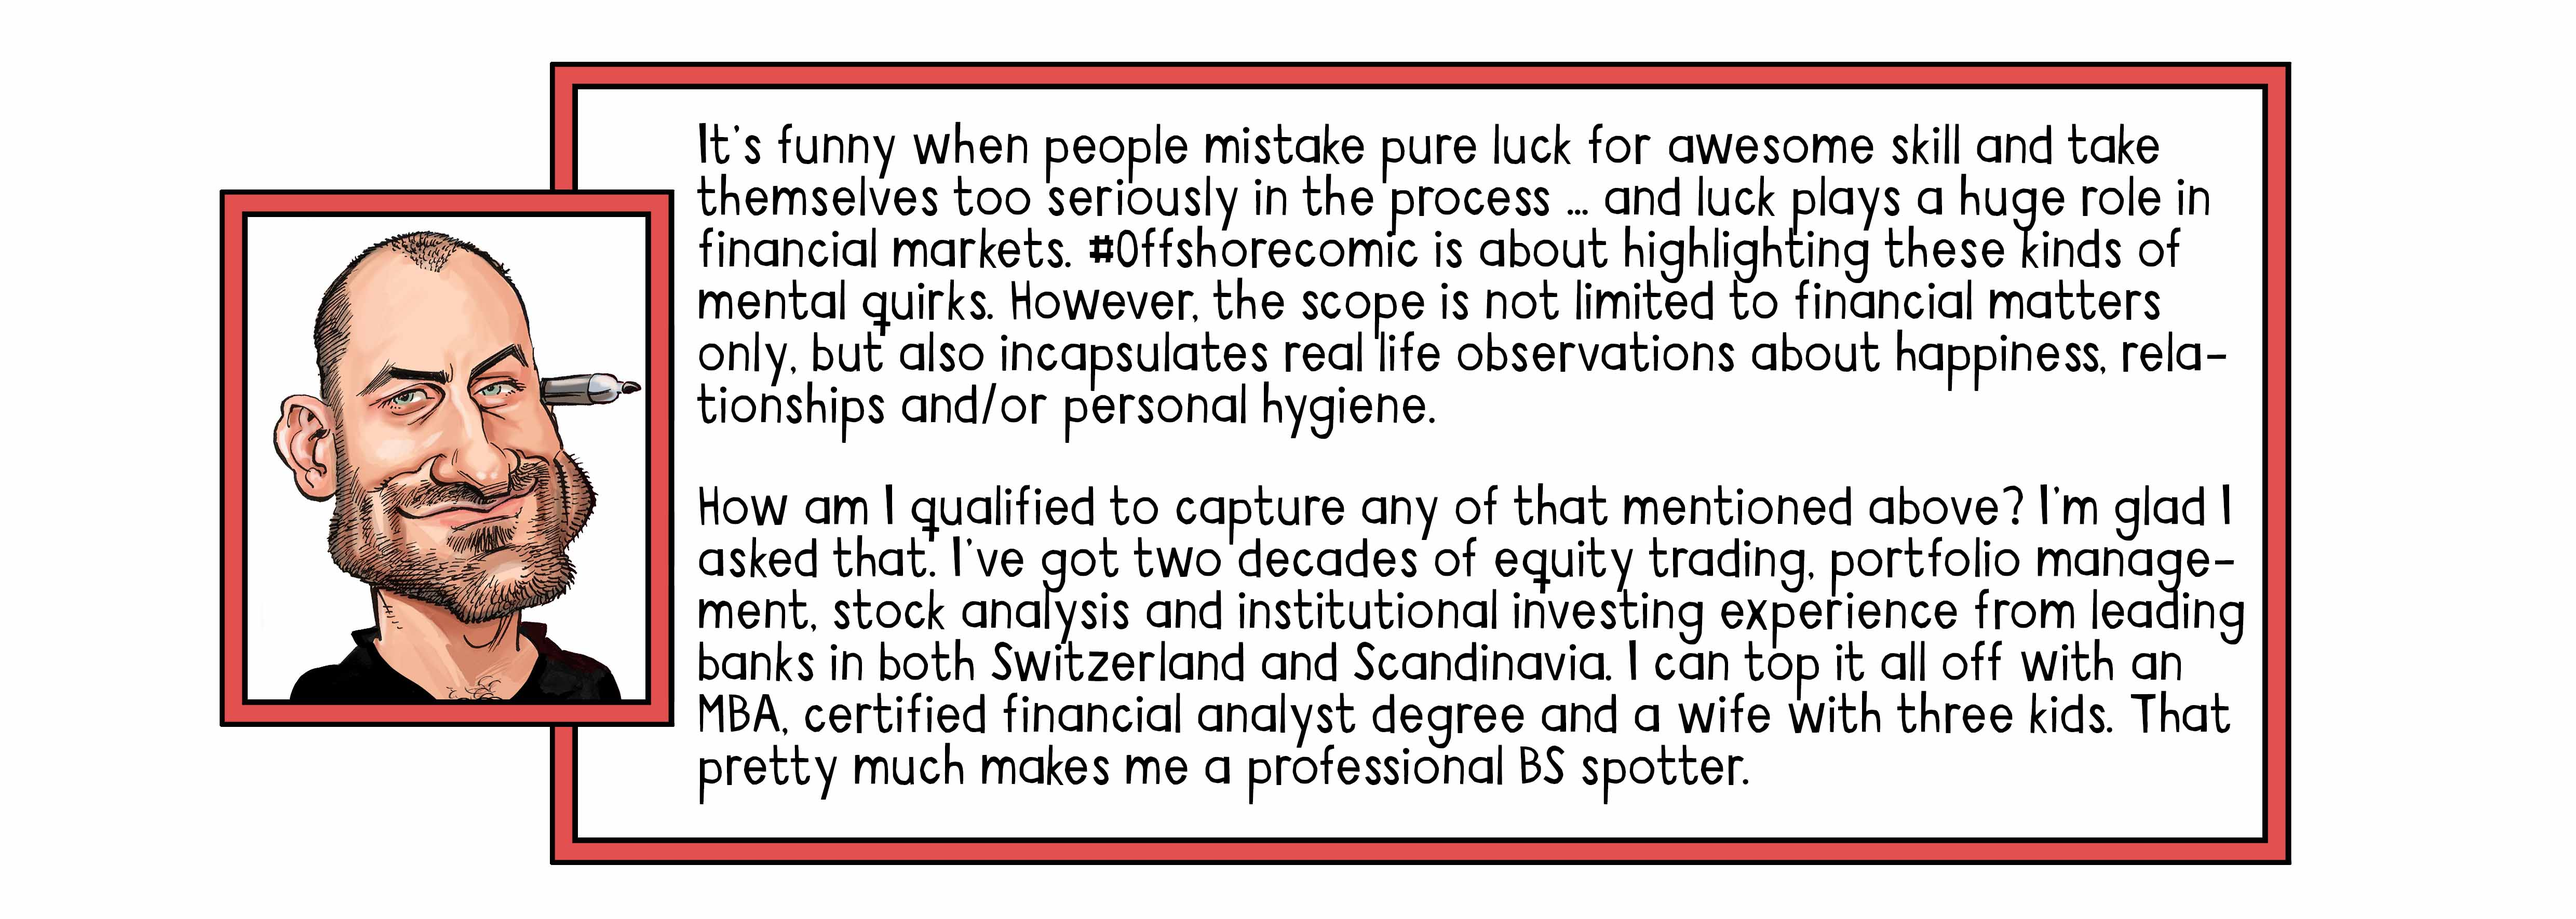
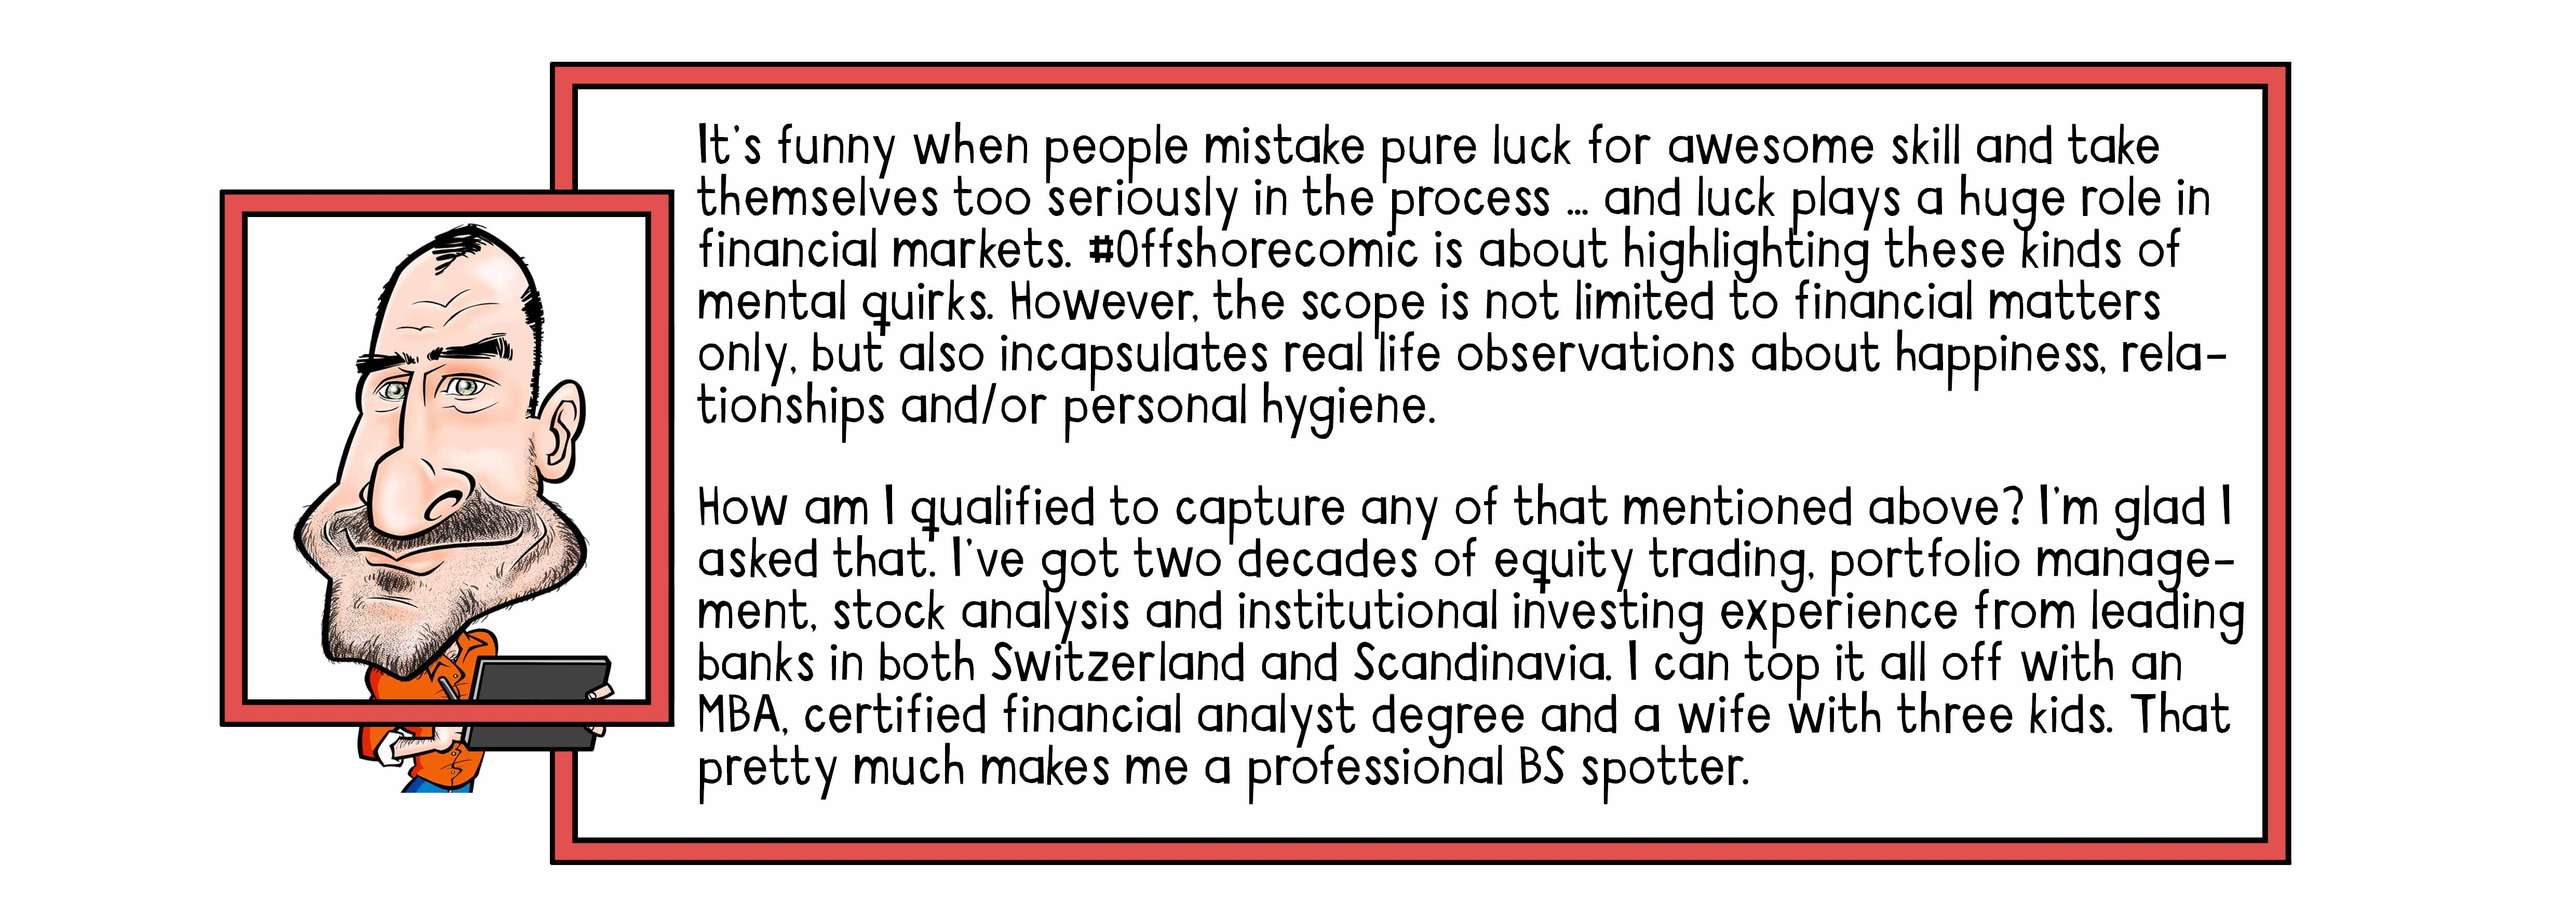
Added new strip and updated the html and js codes accordingly.

Changed region(s): [[0.0937, 0.2486, 0.2499, 0.8701]]

diff --git a/myscripts.js b/myscripts.js
@@ -1,4 +1,4 @@
-var Strips = ["images/S272.jpg","images/S271.jpg","images/S270.jpg","images/S269.jpg","images/S268.jpg","images/S267.jpg","images/S266.jpg","images/S265.jpg","images/S264.jpg","images/S263.jpg","images/S262.jpg","images/S261.jpg","images/S260.jpg","images/S259.jpg","images/S258.jpg","images/S257.jpg","images/S256.jpg","images/S255.jpg","images/S254.jpg","images/S253.jpg","images/S252.jpg","images/S251.jpg","images/S250.jpg","images/S249.jpg","images/S248.jpg","images/S247.jpg","images/S246.jpg","images/S245.jpg","images/S244.jpg","images/S243.jpg","images/S242.jpg","images/S241.jpg","images/S240.jpg","images/S239.jpg","images/S238.jpg","images/S237.jpg","images/S236.jpg","images/S235.jpg","images/S234.jpg","images/S233.jpg","images/S232.jpg","images/S231.jpg","images/S230.jpg","images/S229.jpg","images/S228.jpg","images/S227.jpg","images/S226.jpg","images/S225.jpg","images/S224.jpg","images/S223.jpg","images/S222.jpg","images/S221.jpg","images/S220.jpg","images/S219.jpg","images/S218.jpg","images/S217.jpg","images/S216.jpg","images/S215.jpg","images/S214.jpg","images/S213.jpg","images/S212.jpg","images/S211.jpg","images/S210.jpg","images/S209.jpg","images/S208.jpg","images/S207.jpg","images/S206.jpg","images/S205.jpg","images/S204.jpg","images/S203.jpg","images/S202.jpg","images/S201.jpg","images/S200.jpg","images/S199.jpg","images/S198.jpg","images/S197.jpg","images/S196.jpg","images/S195.jpg","images/S194.jpg","images/S193.jpg","images/S192.jpg","images/S191.jpg","images/S190.jpg","images/S189.jpg","images/S188.jpg","images/S187.jpg","images/S186.jpg","images/S185.jpg","images/S184.jpg","images/S183.jpg","images/S182.jpg","images/S181.jpg","images/S180.jpg","images/S179.jpg","images/S178.jpg","images/S177.jpg","images/S176.jpg","images/S175.jpg","images/S174.jpg","images/S173.jpg","images/S172.jpg","images/S171.jpg","images/S170.jpg","images/S169.jpg","images/S168.jpg","images/S167.jpg","images/S166.jpg","images/S165.jpg","images/S164.jpg","images/S163.jpg","images/S162.jpg","images/S161.jpg","images/S160.jpg","images/S159.jpg","images/S158.jpg","images/S157.jpg","images/S156.jpg","images/S155.jpg","images/S154.jpg","images/S153.jpg","images/S152.jpg","images/S151.jpg","images/S150.jpg","images/S149.jpg","images/S148.jpg","images/S147.jpg","images/S146.jpg","images/S145.jpg","images/S144.jpg","images/S143.jpg","images/S142.jpg","images/S141.jpg","images/S140.jpg","images/S139.jpg","images/S138.jpg","images/S137.jpg","images/S136.jpg","images/S135.jpg","images/S134.jpg","images/S133.jpg","images/S132.jpg","images/S131.jpg","images/S130.jpg","images/S129.jpg","images/S128.jpg","images/S127.jpg","images/S126.jpg","images/S125.jpg","images/S124.jpg","images/S123.jpg","images/S122.jpg","images/S121.jpg","images/S120.jpg","images/S119.jpg","images/S118.jpg","images/S117.jpg","images/S116.jpg","images/S115.jpg","images/S114.jpg","images/S113.jpg","images/S112.jpg","images/S111.jpg","images/S110.jpg","images/S109.jpg","images/S108.jpg","images/S107.jpg","images/S106.jpg","images/S105.jpg","images/S104.jpg","images/S103.jpg","images/S102.jpg","images/S101.jpg","images/S100.jpg","images/S99.jpg","images/S98.jpg","images/S97.jpg","images/S96.jpg","images/S95.jpg","images/S94.jpg","images/S93.jpg","images/S92.jpg","images/S91.jpg","images/S90.jpg","images/S89.jpg","images/S88.jpg","images/S87.jpg","images/S86.jpg","images/S85.jpg","images/S84.jpg","images/S83.jpg","images/S82.jpg","images/S81.jpg","images/S80.jpg","images/S79.jpg","images/S78.jpg","images/S77.jpg","images/S76.jpg","images/S75.jpg","images/S74.jpg","images/S73.jpg","images/S72.jpg","images/S71.jpg","images/S70.jpg","images/S69.jpg","images/S68.jpg","images/S67.jpg","images/S66.jpg","images/S65.jpg","images/S64.jpg","images/S63.jpg","images/S62.jpg","images/S61.jpg","images/S60.jpg","images/S59.jpg","images/S58.jpg","images/S57.jpg","images/S56.jpg","images/S55.jpg","images/S54.jpg","images/S53.jpg","images/S52.jpg","images/S51.jpg","images/S50.jpg","images/S49.jpg","images/S48.jpg","images/S47.jpg","images/S46.jpg","images/S45.jpg","images/S44.jpg","images/S43.jpg","images/S42.jpg","images/S41.jpg","images/S40.jpg","images/S39.jpg","images/S38.jpg","images/S37.jpg","images/S36.jpg","images/S35.jpg","images/S34.jpg","images/S33.jpg","images/S32.jpg","images/S31.jpg","images/S30.jpg","images/S29.jpg","images/S28.jpg","images/S27.jpg","images/S26.jpg","images/S25.jpg","images/S24.jpg","images/S23.jpg","images/S22.jpg","images/S21.jpg","images/S20.jpg","images/S19.jpg","images/S18.jpg","images/S17.jpg","images/S16.jpg","images/S15.jpg","images/S14.jpg","images/S13.jpg","images/S12.jpg","images/S11.jpg","images/S10.jpg","images/S9.jpg","images/S8.jpg","images/S7.jpg","images/S6.jpg","images/S5.jpg","images/S4.jpg","images/S3.jpg","images/S2.jpg","images/S1.jpg"];
+var Strips = ["images/S273.jpg","images/S272.jpg","images/S271.jpg","images/S270.jpg","images/S269.jpg","images/S268.jpg","images/S267.jpg","images/S266.jpg","images/S265.jpg","images/S264.jpg","images/S263.jpg","images/S262.jpg","images/S261.jpg","images/S260.jpg","images/S259.jpg","images/S258.jpg","images/S257.jpg","images/S256.jpg","images/S255.jpg","images/S254.jpg","images/S253.jpg","images/S252.jpg","images/S251.jpg","images/S250.jpg","images/S249.jpg","images/S248.jpg","images/S247.jpg","images/S246.jpg","images/S245.jpg","images/S244.jpg","images/S243.jpg","images/S242.jpg","images/S241.jpg","images/S240.jpg","images/S239.jpg","images/S238.jpg","images/S237.jpg","images/S236.jpg","images/S235.jpg","images/S234.jpg","images/S233.jpg","images/S232.jpg","images/S231.jpg","images/S230.jpg","images/S229.jpg","images/S228.jpg","images/S227.jpg","images/S226.jpg","images/S225.jpg","images/S224.jpg","images/S223.jpg","images/S222.jpg","images/S221.jpg","images/S220.jpg","images/S219.jpg","images/S218.jpg","images/S217.jpg","images/S216.jpg","images/S215.jpg","images/S214.jpg","images/S213.jpg","images/S212.jpg","images/S211.jpg","images/S210.jpg","images/S209.jpg","images/S208.jpg","images/S207.jpg","images/S206.jpg","images/S205.jpg","images/S204.jpg","images/S203.jpg","images/S202.jpg","images/S201.jpg","images/S200.jpg","images/S199.jpg","images/S198.jpg","images/S197.jpg","images/S196.jpg","images/S195.jpg","images/S194.jpg","images/S193.jpg","images/S192.jpg","images/S191.jpg","images/S190.jpg","images/S189.jpg","images/S188.jpg","images/S187.jpg","images/S186.jpg","images/S185.jpg","images/S184.jpg","images/S183.jpg","images/S182.jpg","images/S181.jpg","images/S180.jpg","images/S179.jpg","images/S178.jpg","images/S177.jpg","images/S176.jpg","images/S175.jpg","images/S174.jpg","images/S173.jpg","images/S172.jpg","images/S171.jpg","images/S170.jpg","images/S169.jpg","images/S168.jpg","images/S167.jpg","images/S166.jpg","images/S165.jpg","images/S164.jpg","images/S163.jpg","images/S162.jpg","images/S161.jpg","images/S160.jpg","images/S159.jpg","images/S158.jpg","images/S157.jpg","images/S156.jpg","images/S155.jpg","images/S154.jpg","images/S153.jpg","images/S152.jpg","images/S151.jpg","images/S150.jpg","images/S149.jpg","images/S148.jpg","images/S147.jpg","images/S146.jpg","images/S145.jpg","images/S144.jpg","images/S143.jpg","images/S142.jpg","images/S141.jpg","images/S140.jpg","images/S139.jpg","images/S138.jpg","images/S137.jpg","images/S136.jpg","images/S135.jpg","images/S134.jpg","images/S133.jpg","images/S132.jpg","images/S131.jpg","images/S130.jpg","images/S129.jpg","images/S128.jpg","images/S127.jpg","images/S126.jpg","images/S125.jpg","images/S124.jpg","images/S123.jpg","images/S122.jpg","images/S121.jpg","images/S120.jpg","images/S119.jpg","images/S118.jpg","images/S117.jpg","images/S116.jpg","images/S115.jpg","images/S114.jpg","images/S113.jpg","images/S112.jpg","images/S111.jpg","images/S110.jpg","images/S109.jpg","images/S108.jpg","images/S107.jpg","images/S106.jpg","images/S105.jpg","images/S104.jpg","images/S103.jpg","images/S102.jpg","images/S101.jpg","images/S100.jpg","images/S99.jpg","images/S98.jpg","images/S97.jpg","images/S96.jpg","images/S95.jpg","images/S94.jpg","images/S93.jpg","images/S92.jpg","images/S91.jpg","images/S90.jpg","images/S89.jpg","images/S88.jpg","images/S87.jpg","images/S86.jpg","images/S85.jpg","images/S84.jpg","images/S83.jpg","images/S82.jpg","images/S81.jpg","images/S80.jpg","images/S79.jpg","images/S78.jpg","images/S77.jpg","images/S76.jpg","images/S75.jpg","images/S74.jpg","images/S73.jpg","images/S72.jpg","images/S71.jpg","images/S70.jpg","images/S69.jpg","images/S68.jpg","images/S67.jpg","images/S66.jpg","images/S65.jpg","images/S64.jpg","images/S63.jpg","images/S62.jpg","images/S61.jpg","images/S60.jpg","images/S59.jpg","images/S58.jpg","images/S57.jpg","images/S56.jpg","images/S55.jpg","images/S54.jpg","images/S53.jpg","images/S52.jpg","images/S51.jpg","images/S50.jpg","images/S49.jpg","images/S48.jpg","images/S47.jpg","images/S46.jpg","images/S45.jpg","images/S44.jpg","images/S43.jpg","images/S42.jpg","images/S41.jpg","images/S40.jpg","images/S39.jpg","images/S38.jpg","images/S37.jpg","images/S36.jpg","images/S35.jpg","images/S34.jpg","images/S33.jpg","images/S32.jpg","images/S31.jpg","images/S30.jpg","images/S29.jpg","images/S28.jpg","images/S27.jpg","images/S26.jpg","images/S25.jpg","images/S24.jpg","images/S23.jpg","images/S22.jpg","images/S21.jpg","images/S20.jpg","images/S19.jpg","images/S18.jpg","images/S17.jpg","images/S16.jpg","images/S15.jpg","images/S14.jpg","images/S13.jpg","images/S12.jpg","images/S11.jpg","images/S10.jpg","images/S9.jpg","images/S8.jpg","images/S7.jpg","images/S6.jpg","images/S5.jpg","images/S4.jpg","images/S3.jpg","images/S2.jpg","images/S1.jpg"];
 
 var Current = 0;
 var myStrip = null;

diff --git a/index.html b/index.html
@@ -38,7 +38,7 @@
 		<div class="wrapper6">
 			<div class="wrap-item61"><img src="images/2017_Offshorecomics_web_Today's Offshorecomic.jpg"/></div>
 		</div>
-		<div class="wrap-item1"><img src="images/S272.jpg" id="Strip"/></div>
+		<div class="wrap-item1"><img src="images/S273.jpg" id="Strip"/></div>
 		<div class="wrapper3">
 			<div class="wrap-item3">
 			<button class="button" onClick="Last();">&lsaquo;&lsaquo;</button>
